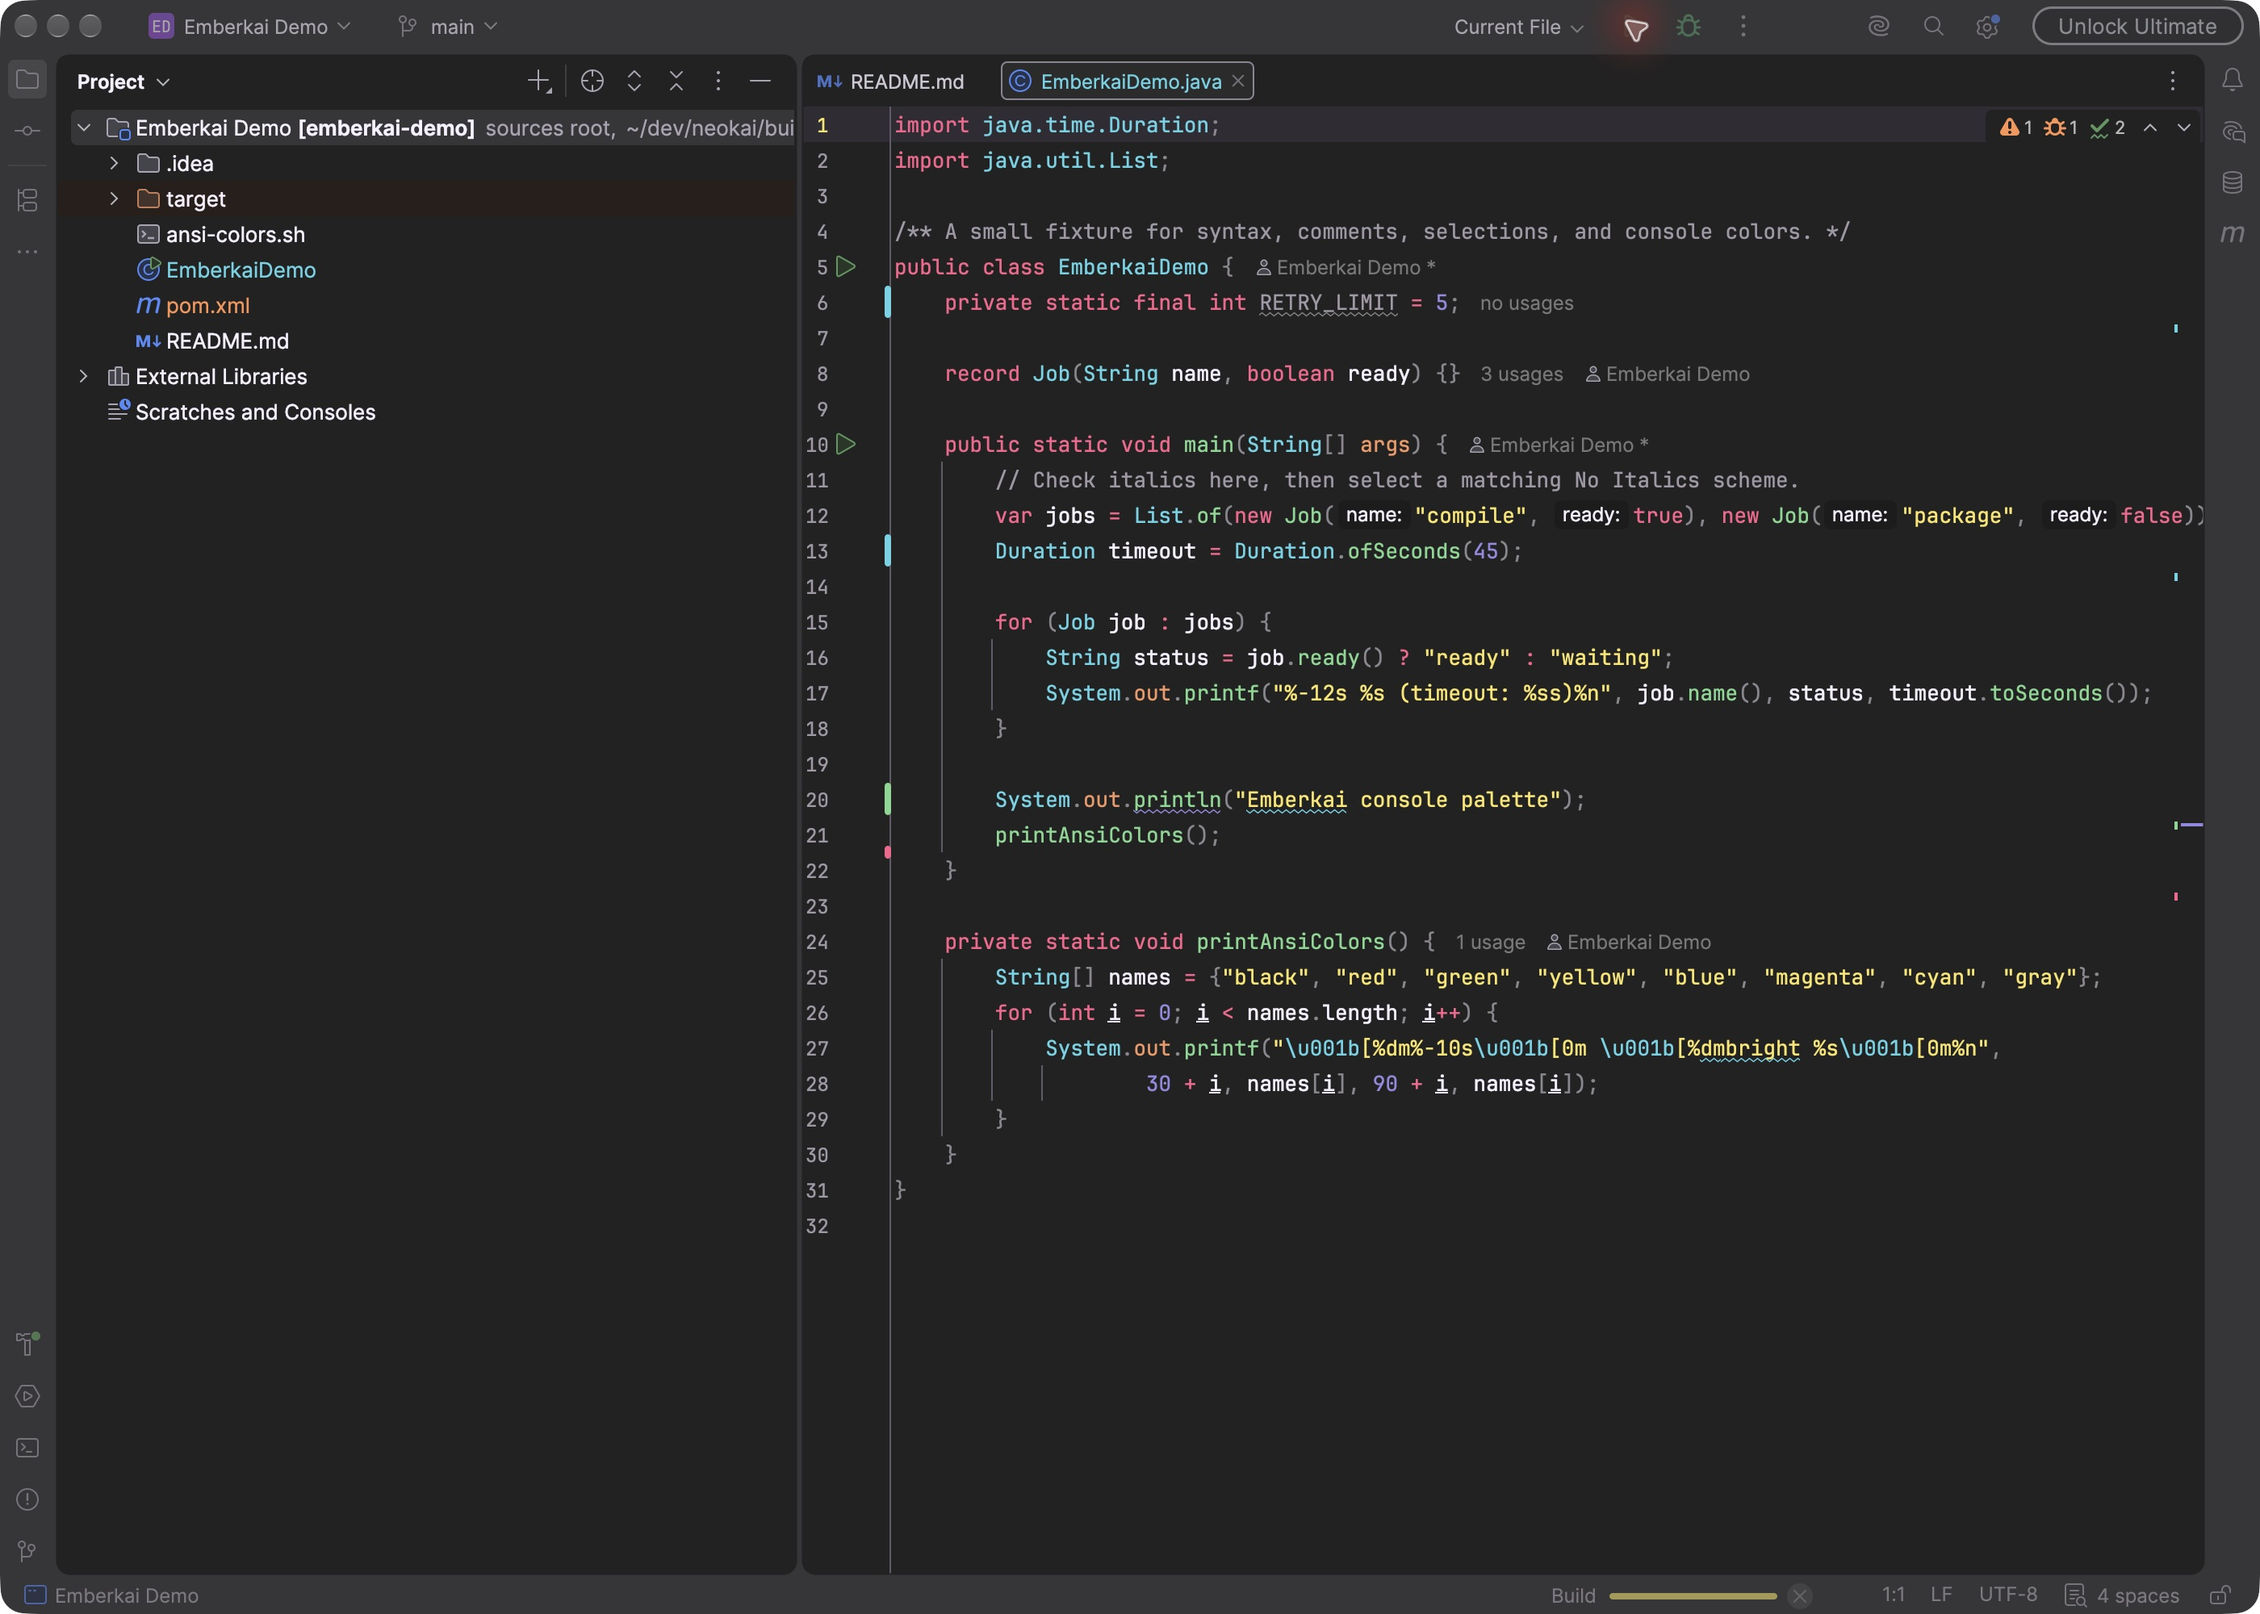
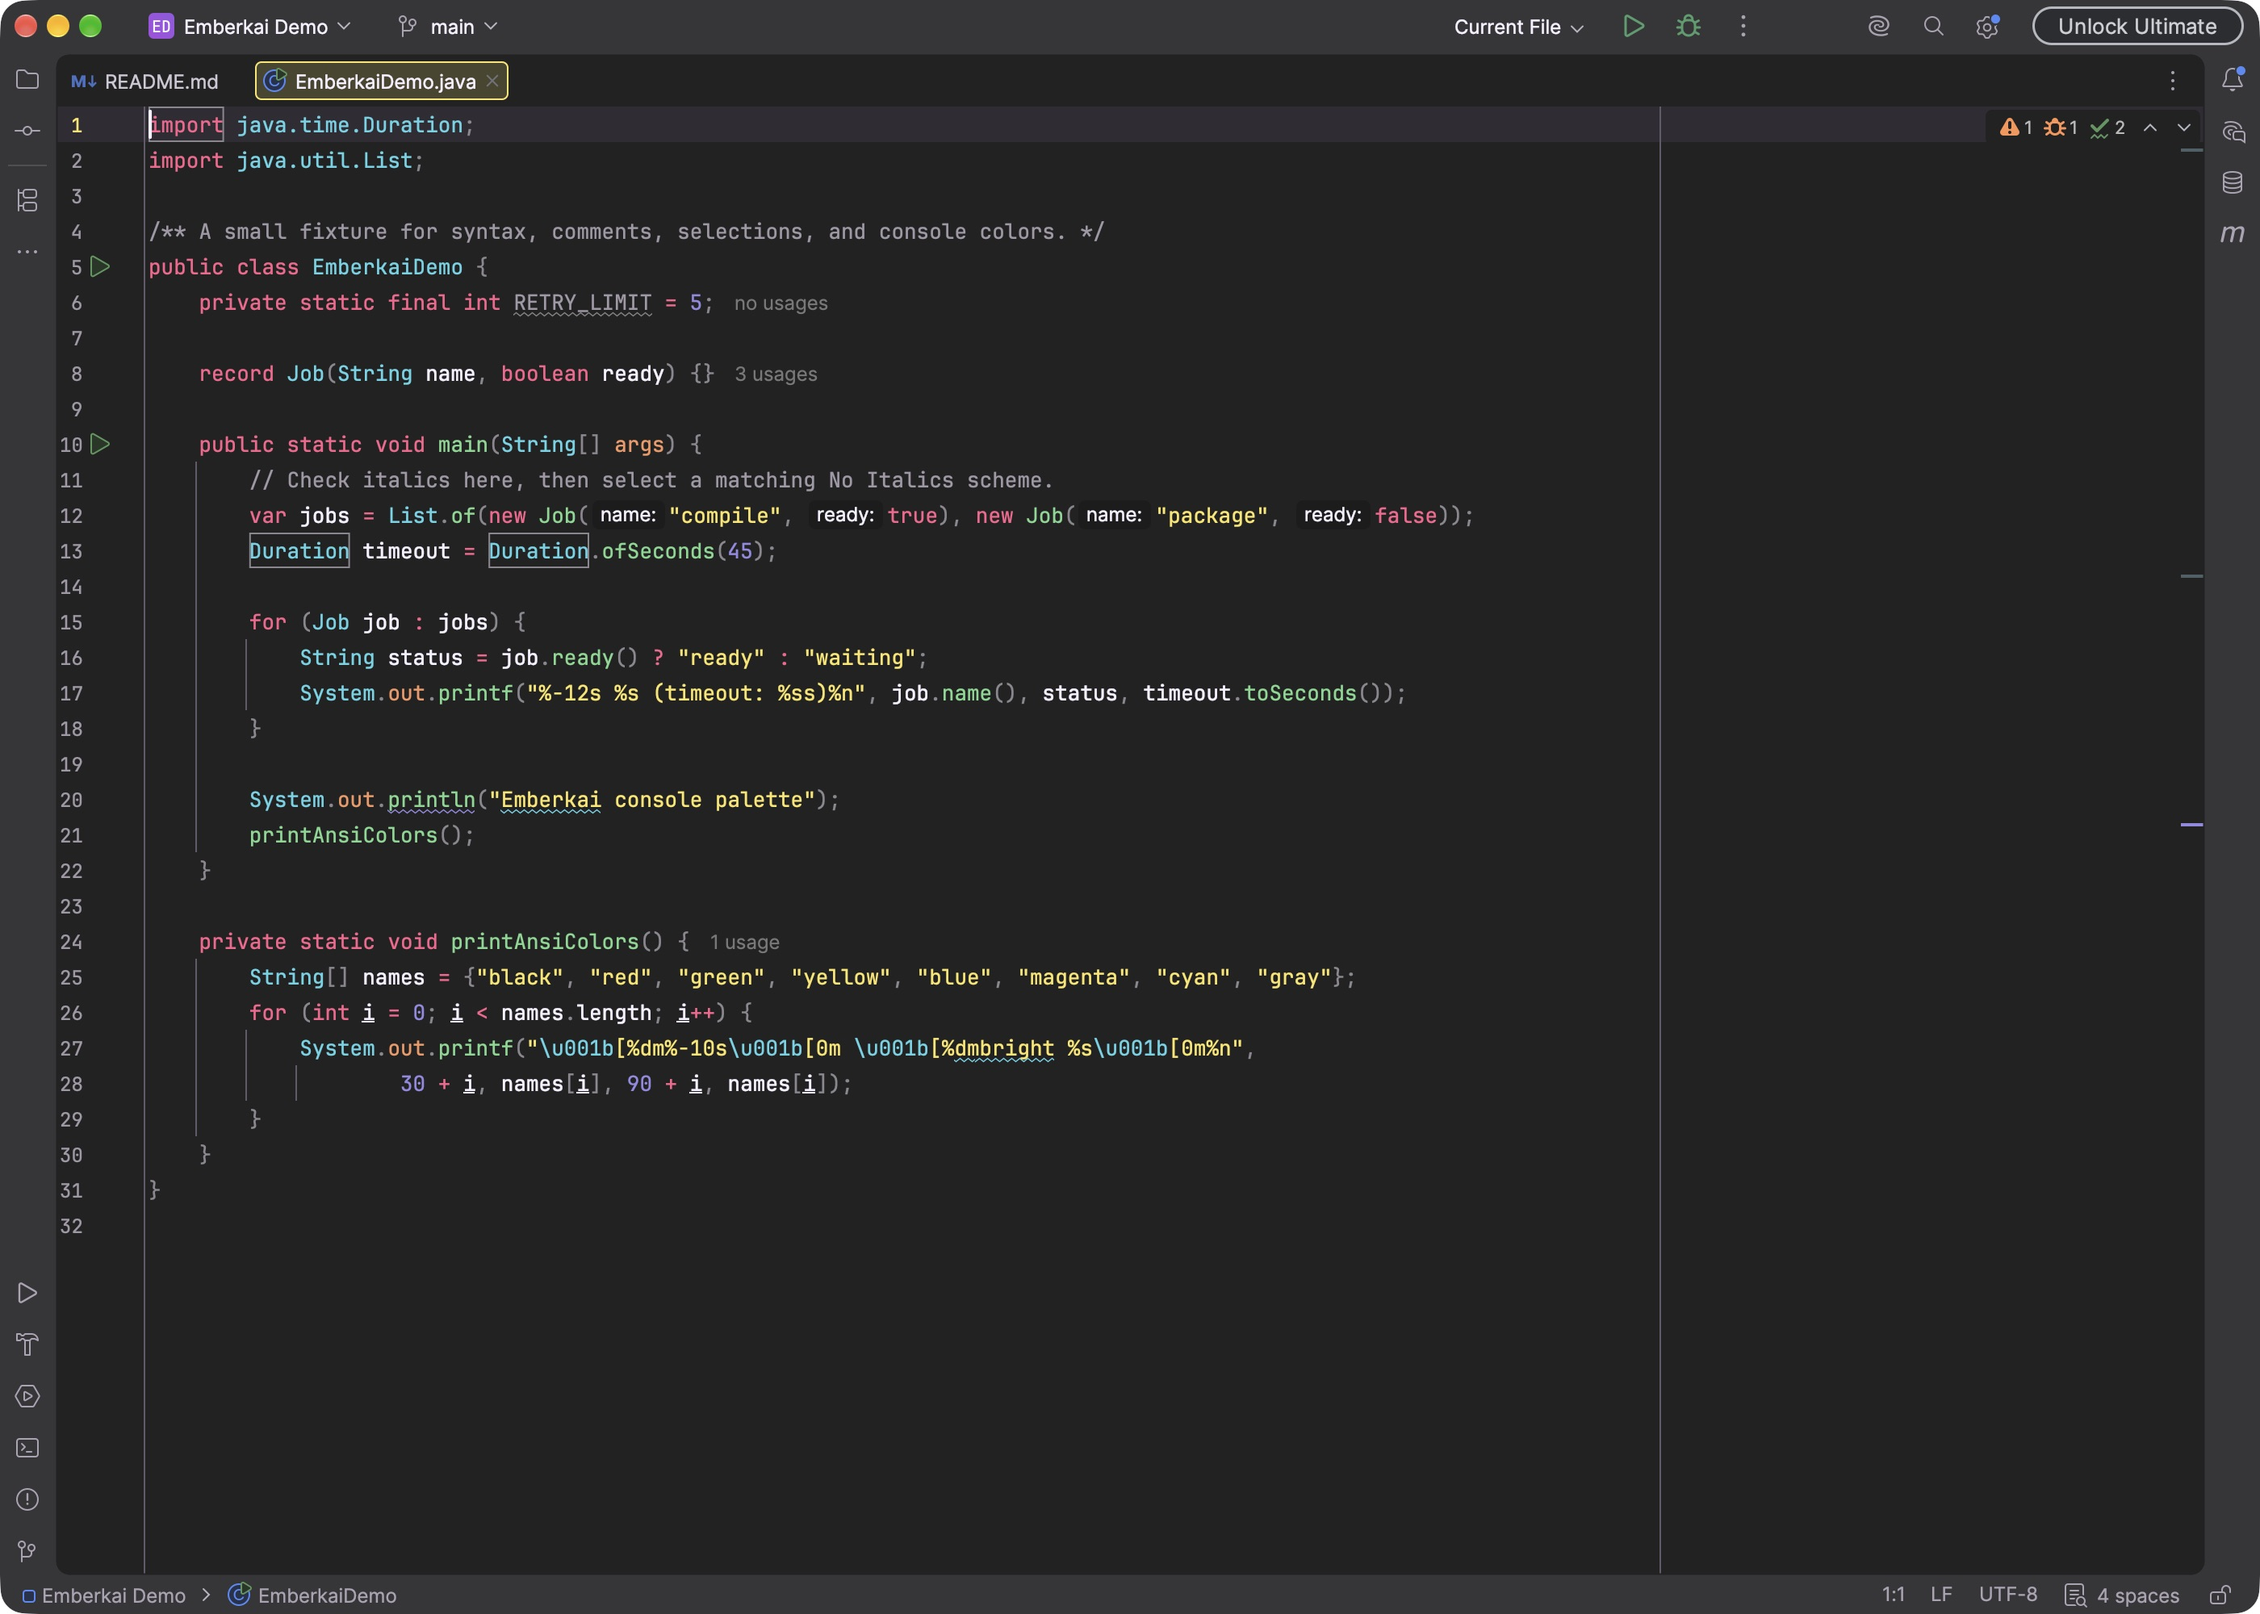
addeded screanshots

diff --git a/docs/screenshots/README.md b/docs/screenshots/README.md
@@ -1,12 +1,71 @@
 # Emberkai in IntelliJ IDEA
 
-Direct captures from IntelliJ IDEA 2026.2.3 on macOS using the
-[sample project](../samples/pom.xml).
+Direct captures from IntelliJ IDEA 2026.2.3 on macOS, taken on 25 October 2026
+using the [sample project](../samples/pom.xml). Images are 2800 × 2000 pixels
+and contain no mouse pointer. Click any preview to open the full-size image.
 
-Spectrum Islands Contrast, compact mode, with No Italics:
+## Six color palettes
+
+The same Java fixture and compact Islands layout in each palette.
+
+| Spectrum | Default |
+| --- | --- |
+| [![Spectrum Islands](spectrum-islands.png)](spectrum-islands.png) | [![Default Islands](default-islands.png)](default-islands.png) |
+| **Classic** | **Machine** |
+| [![Classic Islands](classic-islands.png)](classic-islands.png) | [![Machine Islands](machine-islands.png)](machine-islands.png) |
+| **Octagon** | **Ristretto** |
+| [![Octagon Islands](octagon-islands.png)](octagon-islands.png) | [![Ristretto Islands](ristretto-islands.png)](ristretto-islands.png) |
+
+## Original and Islands layouts
+
+Spectrum syntax colors with the original UI and the rounded Islands layout.
+
+| Original | Islands |
+| --- | --- |
+| [![Spectrum original layout](spectrum-original.png)](spectrum-original.png) | [![Spectrum Islands layout](spectrum-islands.png)](spectrum-islands.png) |
+
+## Teal and Rose accents
+
+Accent presets change the selected controls and tabs while keeping Spectrum's
+syntax colors.
+
+| Teal | Rose |
+| --- | --- |
+| [![Spectrum Islands Teal accent](spectrum-teal.png)](spectrum-teal.png) | [![Spectrum Islands Rose accent](spectrum-rose.png)](spectrum-rose.png) |
+
+## Contrast and No Italics
+
+Spectrum Islands Contrast with brighter comments and secondary text, compact
+spacing, and the matching **Emberkai (Spectrum Contrast) - No Italics** scheme.
 
 ![Spectrum Contrast in compact mode](spectrum-contrast-compact.png)
 
-Spectrum Islands Teal, showing modified, inserted, and deleted lines:
+## Diff viewer
+
+Spectrum Islands Teal, showing modified, inserted, and deleted lines between
+the sample and a local copy.
 
 ![Spectrum Teal diff viewer](spectrum-teal-diff.png)
+
+## ANSI console colors
+
+Spectrum Islands Teal in the Run console, showing all eight normal and eight
+bright ANSI colors. The sample finishes with exit code 0.
+
+![Spectrum Teal ANSI console palette](spectrum-teal-console.png)
+
+## Semantic highlighting
+
+Spectrum Islands Contrast with No Italics and optional semantic highlighting
+enabled. Parameters and local variables receive distinct colors, repeated at
+their references. See the [setup guide](../semantic-highlighting.md).
+
+![Spectrum Contrast semantic highlighting](spectrum-semantic-highlighting.png)
+
+## Taking new screenshots
+
+Use an isolated development IDE profile and the sample project. Keep the same
+file, editor size, and spacing when comparing palettes. Move the mouse pointer
+out of the captured content before saving, dismiss tooltips and popups, and wait
+for code analysis or sample execution to finish. Check the saved PNG itself for
+the pointer or its highlight before adding it here.

diff --git a/README.md b/README.md
@@ -15,13 +15,37 @@ Requires **IntelliJ Platform 2025.3 or newer**.
 
 ## Preview
 
-Spectrum Islands Contrast, compact mode, with No Italics:
+Direct IntelliJ IDEA captures, with no mouse pointer. See the
+[full screenshot gallery](docs/screenshots/README.md) for layouts, accents, and features.
+
+### Color palettes
+
+All six palettes in the Islands layout. Click a preview to see it at full size.
+
+| Spectrum | Default |
+| --- | --- |
+| [![Spectrum Islands palette](docs/screenshots/spectrum-islands.png)](docs/screenshots/spectrum-islands.png) | [![Default Islands palette](docs/screenshots/default-islands.png)](docs/screenshots/default-islands.png) |
+| **Classic** | **Machine** |
+| [![Classic Islands palette](docs/screenshots/classic-islands.png)](docs/screenshots/classic-islands.png) | [![Machine Islands palette](docs/screenshots/machine-islands.png)](docs/screenshots/machine-islands.png) |
+| **Octagon** | **Ristretto** |
+| [![Octagon Islands palette](docs/screenshots/octagon-islands.png)](docs/screenshots/octagon-islands.png) | [![Ristretto Islands palette](docs/screenshots/ristretto-islands.png)](docs/screenshots/ristretto-islands.png) |
+
+### Features
+
+Spectrum Islands Contrast, compact mode, with the matching No Italics scheme:
 
 ![Spectrum Islands Contrast editor preview](docs/screenshots/spectrum-contrast-compact.png)
 
 Spectrum Islands Teal in the diff viewer:
 
 ![Spectrum Islands Teal diff preview](docs/screenshots/spectrum-teal-diff.png)
+
+| ANSI console colors | Optional semantic highlighting |
+| --- | --- |
+| [![Spectrum Teal normal and bright ANSI console colors](docs/screenshots/spectrum-teal-console.png)](docs/screenshots/spectrum-teal-console.png) | [![Spectrum Contrast semantic highlighting for parameters and local variables](docs/screenshots/spectrum-semantic-highlighting.png)](docs/screenshots/spectrum-semantic-highlighting.png) |
+
+The gallery also compares [original and Islands layouts](docs/screenshots/README.md#original-and-islands-layouts)
+and [Teal and Rose accents](docs/screenshots/README.md#teal-and-rose-accents).
 
 ## Build and install
 

diff --git a/docs/semantic-highlighting.md b/docs/semantic-highlighting.md
@@ -24,3 +24,7 @@ variable name does not have a fixed color across every scope or project.
 
 Open [SemanticDemo.java](samples/SemanticDemo.java) in the
 [sample project](samples/pom.xml) to compare the enabled and disabled views.
+
+Spectrum Islands Contrast with No Italics and semantic highlighting enabled:
+
+![Semantic highlighting in IntelliJ IDEA](screenshots/spectrum-semantic-highlighting.png)
